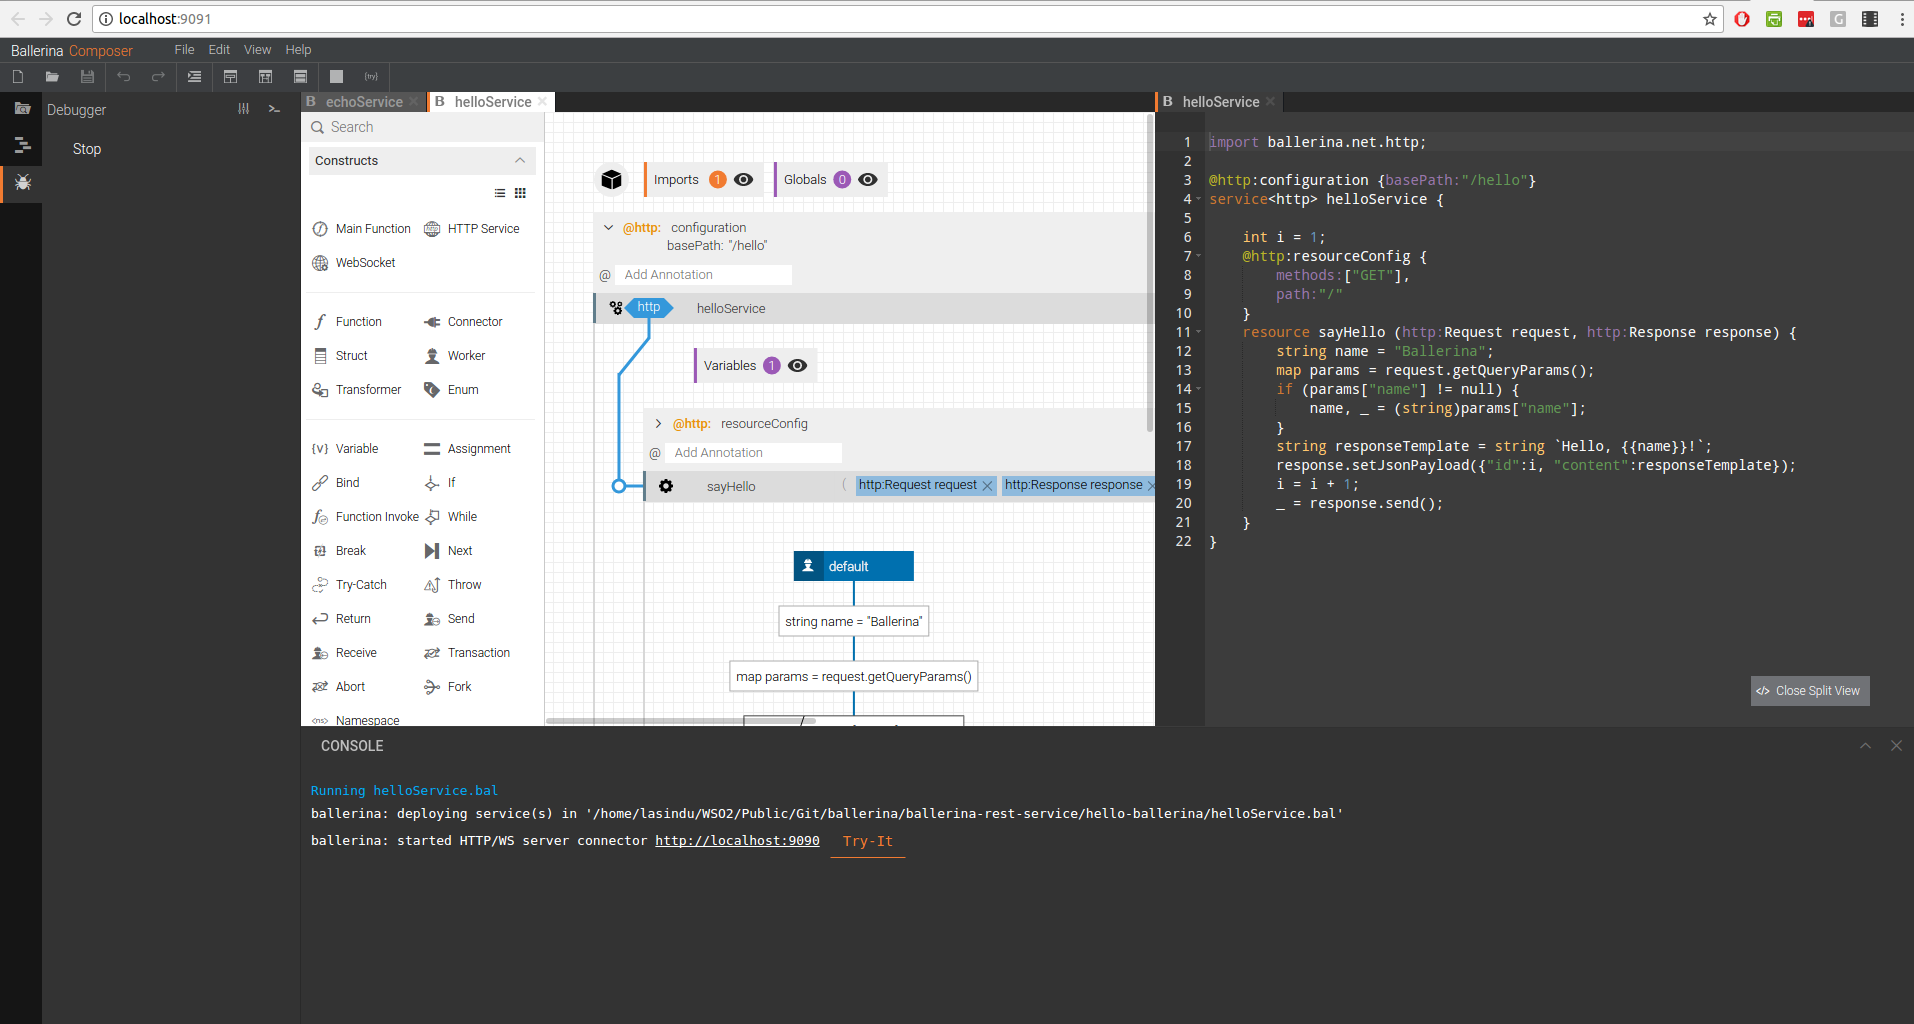
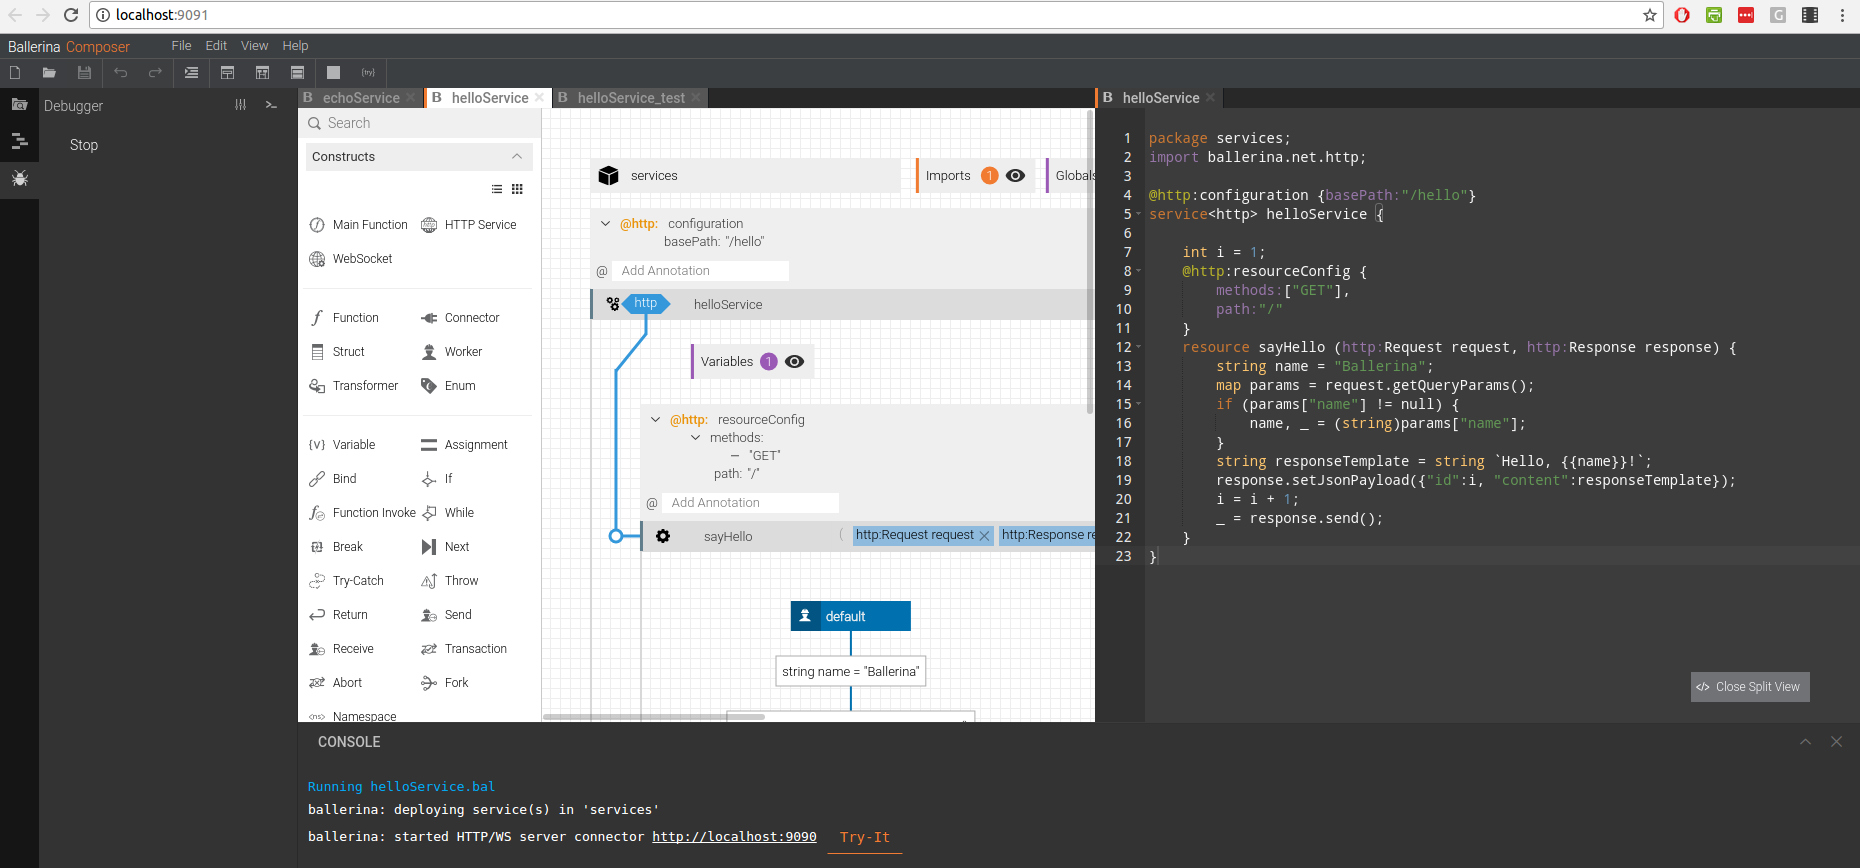
testerina docs and updated README

diff --git a/README.md b/README.md
@@ -1,5 +1,5 @@
 # Ballerina RESTful Web Service
-Following guide walk you through the step by step process of building a RESTful Web Service with Ballerina.
+Following guide walks you through the step by step process of building a RESTful Web Service with Ballerina.
 Guide also explains the development and deployment workflow of a standard Ballerina Service in-detail.
 
 ## What you'll build
@@ -35,14 +35,17 @@ Download and unzip the source repository for this guide in https://github.com/la
 Skip "Writing the Service" section
 
 ## Writing the Service
-Create a new directory(Ex: hello-ballerina). Inside the directory,create a new file in your text editor and copy the following content. Save the file with .bal extension (ex:helloService.bal) 
+Create a new directory(Ex: hello-ballerina). Inside the directory,create a package(Ex: service). Package is another directory in the project hierarchy.
+Create a new file in your text editor and copy following content. Save the file with .bal extension (ex:helloService.bal) 
 ```
 hello-ballerina
-   └── helloService.bal
+   └── services
+       └── helloService.bal
 ```
 
 ##### helloService.bal
 ```
+package services;
 
 import ballerina.net.http;
 
@@ -54,6 +57,7 @@ service<http> helloService {
         methods:["GET"],
         path:"/"
     }
+
     resource sayHello (http:Request request, http:Response response) {
         string name = "Ballerina";
         map params = request.getQueryParams();
@@ -75,22 +79,28 @@ Ballerina supports extracting values both from PathParam and QueryParam. Query P
 A string template **responseTemplate** holds the response string. In ballerina you could define a response structure or a json inline in the code.
 
 ### Running Service in Command-line
-You can run the ballerina service/application from the command line. Execute following command to compile and execute the ballerina program.
+You can run the ballerina service/application from the command line. Navigate to hello-ballerina directory and execute following command to compile and execute the ballerina program.
 
 ```
-$ballerina run helloService.bal
+$ballerina run services/
 ```
 
-Following commands will compile the ballerina program and run. Note that compiler will create a .balx file, which is the executable binary of the service/application upon execution of **build** command.
+Following commands will compile the ballerina program and run. Note that compiler will create a **.balx** file, which is the executable binary of the service/application upon execution of **build** command.
+The executable will be created with name <package_name>.balx
 
 ```
-$ballerina build helloService.bal
-$balleina run helloService.balx
+$ballerina build services/
+$balleina run services.balx
+```
+Console Output
+```
+ballerina: deploying service(s) in 'services'
+ballerina: started HTTP/WS server connector 0.0.0.0:9090
 ```
 
-### Running Service in Composer
+### Running Service in Ballerina Composer
 Start Composer https://ballerinalang.org/docs/quick-tour/quick-tour/#run-the-composer
-Navigate to File -> Open Program Directory, and pick the project folder (hello-ballerina).
+Navigate to File -> Open Program Directory, and pick the project folder (hello-ballerina). Navigate to helloService.bal.
 
 Click on **Run**(Ctrl+Shift+R) button in the tool bar.
 
@@ -116,10 +126,61 @@ Provide a name query parameter with http://localhost:9090/hello?name=User. Notic
 
 ## Writing Test cases
 
+Create a new file inside services directory with name helloService_test.bal. Make sure your test file ends with _test.bal
+Refer Testerina test framework for more information https://github.com/ballerinalang/testerina
+```
+hello-ballerina
+   └── services
+       ├── helloService.bal
+       └── helloService_test.bal
+```
+
+##### helloService_test.bal
+```
+package services;
+
+import ballerina.test;
+import ballerina.net.http;
+
+function testHelloService () {
+    endpoint<http:HttpClient> httpEndpoint {
+        create http:HttpClient("http://localhost:9090/hello", {});
+    }
+
+    http:Request req = {};
+    http:Response resp = {};
+    string helloServiceURL = test:startService("helloService");
+    resp, _ = httpEndpoint.get("?name=User", req);
+    test:assertStringEquals(resp.getStringPayload(), "{\"id\":1,\"content\":\"Hello, User!\"}", "Response mismatch!");
+
+}
+```
+
+The test case start the helloService and sends a sample get request to the HTTP endpoint.
+It also asserts if the response payload matches the expected result.
+
+#### Running Test case
+
+```
+$ballerina test services/
+```
+
+Console output 
+```
+$ballerina test services/
+ballerina: started HTTP/WS server connector 0.0.0.0:9090
+
+result: 
+tests run: 1, passed: 1, failed: 0
+```
+
 ## Creating Documentation
+<TODO>
 
 ## Run Service on Docker
+<TODO>
 
 ## Run Service on Cloud Foundry
+<TODO>
 
 
